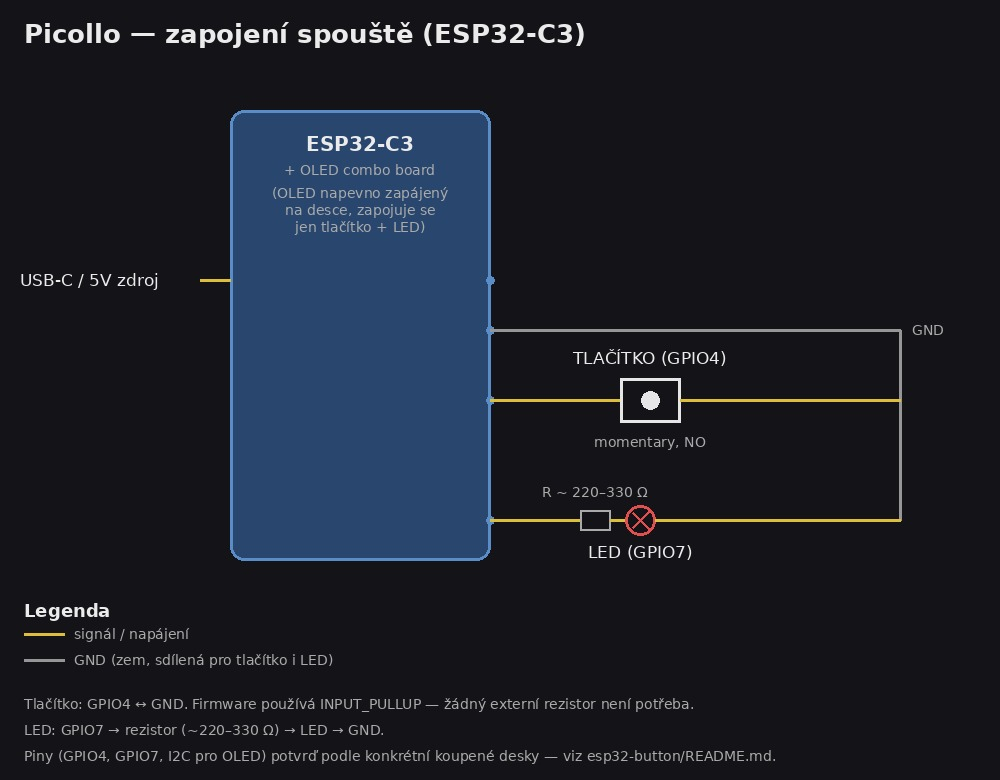
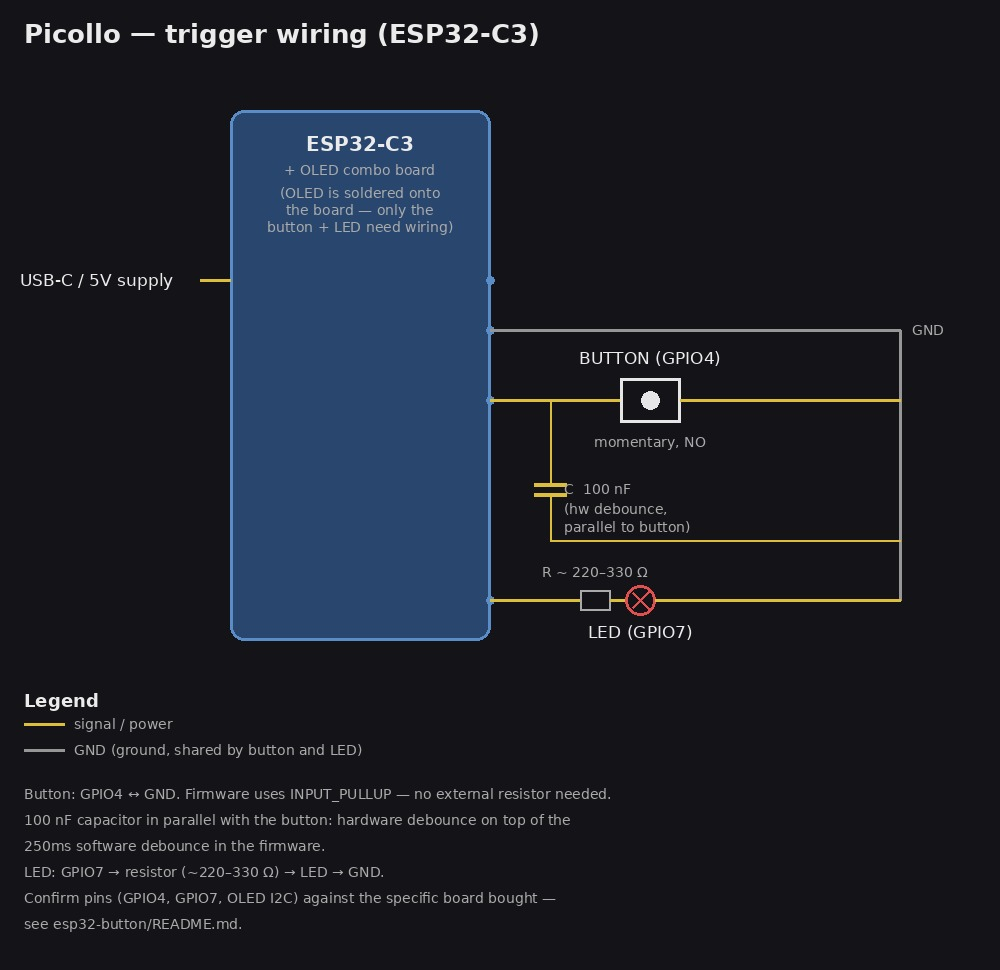
Add hardware debounce capacitor to trigger wiring; make wiring diagram English for consistency

diff --git a/esp32-button/generate_wiring_diagram.py b/esp32-button/generate_wiring_diagram.py
@@ -2,7 +2,7 @@
 
 from PIL import Image, ImageDraw, ImageFont
 
-W, H = 1000, 780
+W, H = 1000, 970
 BG = (20, 20, 24)
 BOARD = (40, 70, 110)
 BOARD_EDGE = (90, 140, 200)
@@ -33,16 +33,16 @@ title_f = font(26, bold=True)
 label_f = font(17)
 small_f = font(14)
 
-d.text((24, 18), "Picollo — zapojení spouště (ESP32-C3)", font=title_f, fill=TEXT)
+d.text((24, 18), "Picollo — trigger wiring (ESP32-C3)", font=title_f, fill=TEXT)
 
 # ---- Board ----
-bx, by, bw, bh = 230, 110, 260, 450
+bx, by, bw, bh = 230, 110, 260, 530
 d.rounded_rectangle([bx, by, bx + bw, by + bh], radius=14, fill=BOARD, outline=BOARD_EDGE, width=3)
 d.text((bx + bw / 2, by + 34), "ESP32-C3", font=font(20, bold=True), fill=TEXT, anchor="mm")
 d.text((bx + bw / 2, by + 60), "+ OLED combo board", font=small_f, fill=DIM, anchor="mm")
 d.text(
     (bx + bw / 2, by + 100),
-    "(OLED napevno zapájený\nna desce, zapojuje se\njen tlačítko + LED)",
+    "(OLED is soldered onto\nthe board — only the\nbutton + LED need wiring)",
     font=small_f,
     fill=DIM,
     anchor="mm",
@@ -52,14 +52,14 @@ d.text(
 y_5v = by + 170
 y_gnd = by + 220
 y_btn = by + 290
-y_led = by + 410
+y_led = by + 490
 
 # Pin dots + inline labels at board's right edge
 for name, y in [("5V", y_5v), ("GND", y_gnd), ("GPIO4", y_btn), ("GPIO7", y_led)]:
     d.ellipse([bx + bw - 4, y - 4, bx + bw + 4, y + 4], fill=BOARD_EDGE)
 
 # ---- Power in (left side) ----
-d.text((20, y_5v), "USB-C / 5V zdroj", font=label_f, fill=TEXT, anchor="lm")
+d.text((20, y_5v), "USB-C / 5V supply", font=label_f, fill=TEXT, anchor="lm")
 d.line([200, y_5v, bx, y_5v], fill=WIRE, width=3)
 
 # ---- Shared GND rail (right side) ----
@@ -73,9 +73,22 @@ btn_x = 650
 d.line([bx + bw, y_btn, btn_x - 30, y_btn], fill=WIRE, width=3)
 d.rectangle([btn_x - 30, y_btn - 22, btn_x + 30, y_btn + 22], outline=BTN_COLOR, width=3)
 d.ellipse([btn_x - 9, y_btn - 9, btn_x + 9, y_btn + 9], fill=BTN_COLOR)
-d.text((btn_x, y_btn - 42), "TLAČÍTKO (GPIO4)", font=label_f, fill=TEXT, anchor="mm")
+d.text((btn_x, y_btn - 42), "BUTTON (GPIO4)", font=label_f, fill=TEXT, anchor="mm")
 d.text((btn_x, y_btn + 42), "momentary, NO", font=small_f, fill=DIM, anchor="mm")
 d.line([btn_x + 30, y_btn, rail_x, y_btn], fill=WIRE, width=3)
+
+# ---- Debounce capacitor, wired in parallel across the button ----
+cap_x = bx + bw + 60
+y_cap = (y_btn + y_led) // 2
+d.line([bx + bw, y_btn, cap_x, y_btn], fill=WIRE, width=2)  # tap off the GPIO4 line
+d.line([cap_x, y_btn, cap_x, y_cap - 16], fill=WIRE, width=2)
+d.line([cap_x - 16, y_cap - 16, cap_x + 16, y_cap - 16], fill=WIRE, width=4)  # cap plate
+d.line([cap_x - 16, y_cap - 6, cap_x + 16, y_cap - 6], fill=WIRE, width=4)   # cap plate
+d.line([cap_x, y_cap - 6, cap_x, y_cap + 40], fill=WIRE, width=2)
+d.line([cap_x, y_cap + 40, rail_x, y_cap + 40], fill=WIRE, width=2)
+d.text((cap_x + 14, y_cap - 11), "C  100 nF", font=small_f, fill=DIM, anchor="lm")
+d.text((cap_x + 14, y_cap + 9), "(hw debounce,", font=small_f, fill=DIM, anchor="lm")
+d.text((cap_x + 14, y_cap + 27), "parallel to button)", font=small_f, fill=DIM, anchor="lm")
 
 # ---- LED branch ----
 led_x = 650
@@ -90,17 +103,20 @@ d.text((led_x - 10, y_led + 32), "LED (GPIO7)", font=label_f, fill=TEXT, anchor=
 d.line([led_x + 5, y_led, rail_x, y_led], fill=WIRE, width=3)
 
 # ---- Legend ----
-ly = 600
-d.text((24, ly), "Legenda", font=font(18, bold=True), fill=TEXT)
+ly = 690
+d.text((24, ly), "Legend", font=font(18, bold=True), fill=TEXT)
 d.line([24, ly + 34, 64, ly + 34], fill=WIRE, width=3)
-d.text((74, ly + 34), "signál / napájení", font=small_f, fill=DIM, anchor="lm")
+d.text((74, ly + 34), "signal / power", font=small_f, fill=DIM, anchor="lm")
 d.line([24, ly + 60, 64, ly + 60], fill=GND_WIRE, width=3)
-d.text((74, ly + 60), "GND (zem, sdílená pro tlačítko i LED)", font=small_f, fill=DIM, anchor="lm")
+d.text((74, ly + 60), "GND (ground, shared by button and LED)", font=small_f, fill=DIM, anchor="lm")
 
 lines = [
-    "Tlačítko: GPIO4 ↔ GND. Firmware používá INPUT_PULLUP — žádný externí rezistor není potřeba.",
-    "LED: GPIO7 → rezistor (~220–330 Ω) → LED → GND.",
-    "Piny (GPIO4, GPIO7, I2C pro OLED) potvrď podle konkrétní koupené desky — viz esp32-button/README.md.",
+    "Button: GPIO4 ↔ GND. Firmware uses INPUT_PULLUP — no external resistor needed.",
+    "100 nF capacitor in parallel with the button: hardware debounce on top of the",
+    "250ms software debounce in the firmware.",
+    "LED: GPIO7 → resistor (~220–330 Ω) → LED → GND.",
+    "Confirm pins (GPIO4, GPIO7, OLED I2C) against the specific board bought —",
+    "see esp32-button/README.md.",
 ]
 for i, line in enumerate(lines):
     d.text((24, ly + 96 + i * 26), line, font=small_f, fill=DIM)

diff --git a/esp32-button/README.md b/esp32-button/README.md
@@ -35,6 +35,11 @@ Edit the top of `button.ino`:
 
 - Button: one leg to `BUTTON_PIN`, other leg to GND. Firmware uses
   `INPUT_PULLUP`, so no external resistor needed.
+- Debounce capacitor: ~100 nF ceramic, wired in parallel across the
+  button's two legs. The firmware already does a 250ms software debounce,
+  so this is extra insurance against contact bounce/electrical noise on a
+  button that'll get mashed by strangers all day — not strictly required,
+  but cheap and worth it.
 - LED: `LED_PIN` → series resistor (~220–330 Ω) → LED → GND.
 - OLED: I2C (SDA/SCL as configured above) — likely already wired on-board
   if it's an integrated combo module.
@@ -45,7 +50,7 @@ Edit the top of `button.ino`:
 
 ### Trigger wiring diagram
 
-![Zapojení spouště](wiring.jpg)
+![Trigger wiring](wiring.jpg)
 
 The button and LED are the only things that need wiring by hand on most
 combo boards — the OLED is normally already soldered to the same PCB.

diff --git a/PROJECT.md b/PROJECT.md
@@ -66,6 +66,8 @@ selectable via a tablet touchscreen.
   `Ready <ip>`, then `Divej se!` while armed, `Fotim...` while capturing,
   then the result for ~1.5s. Auto-reconnects on WiFi drop; restarts itself
   only if disconnected for 2+ minutes straight.
+  Wiring also includes a ~100nF capacitor in parallel across the button
+  for hardware debounce, on top of the firmware's 250ms software debounce.
   See `esp32-button/README.md` (now includes a wiring diagram, `wiring.jpg`)
   for wiring and flashing steps.
 - **Not yet done:** WIFI_SSID/PASSWORD and NUC_HOST placeholders need real
